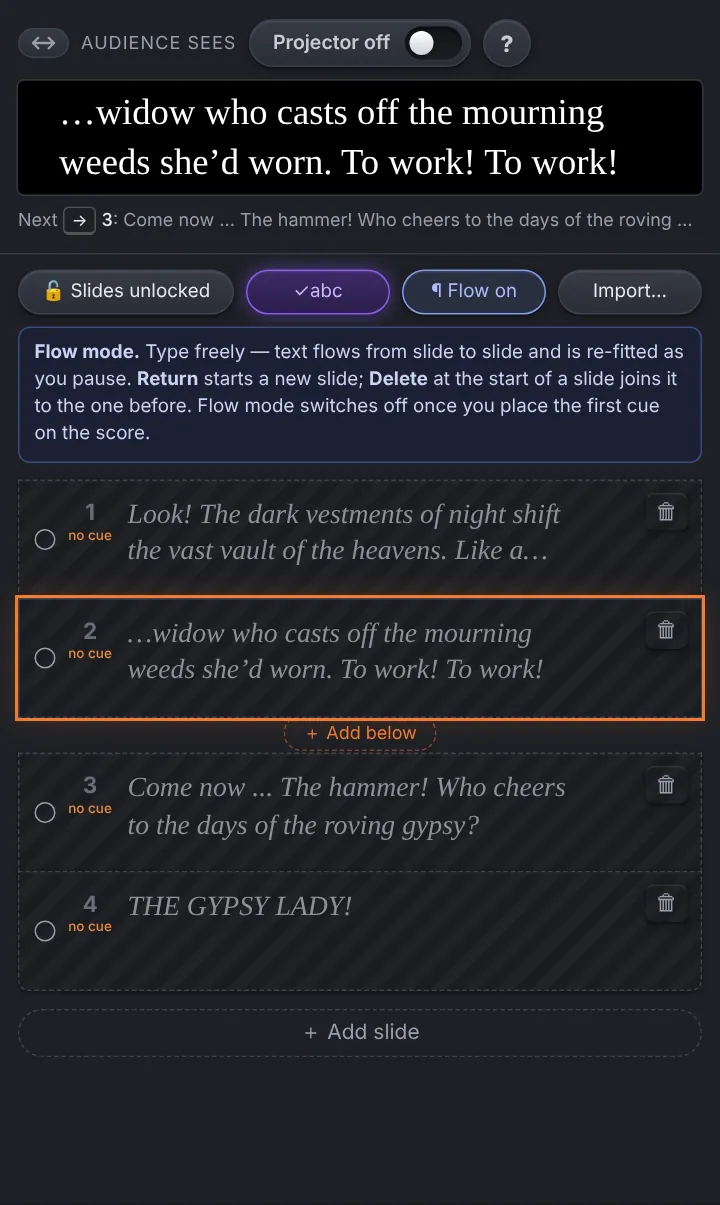
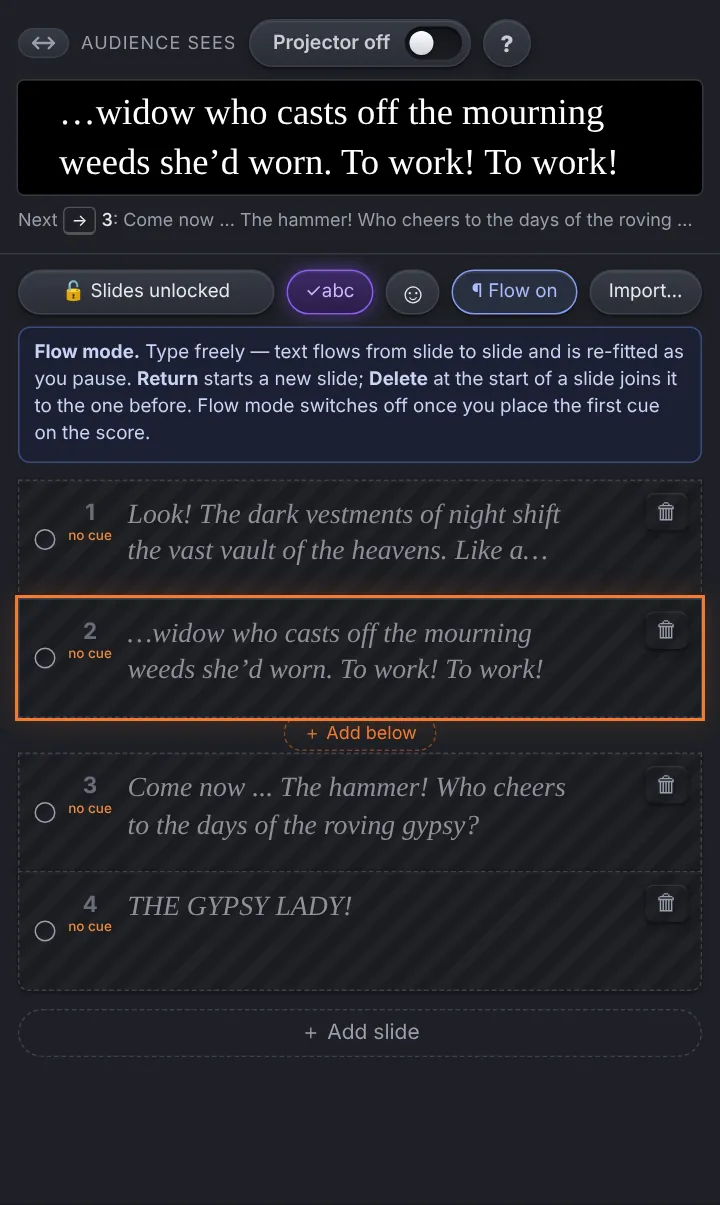
Settings in two parts (Titles / Cues on the score); emoji palette above the slides; on a Mac STQ keeps running when its window closes, like Word; guide updated
Claude-Session: https://claude.ai/code/session_01JZx8grrhxKZEWkWkE57QFR

Changed region(s): [[0.0611, 0.2149, 0.9167, 0.2763]]

diff --git a/src/app.html b/src/app.html
@@ -307,7 +307,17 @@ body.swapped .swapbtn::after{left:auto;right:0}
 .pvguide{position:absolute;box-sizing:border-box;border:0 solid rgba(255,255,255,.4);pointer-events:none}
 .nextline{margin-top:8px;font-size:12px;color:var(--dim);white-space:nowrap;overflow:hidden;text-overflow:ellipsis}
 .nextline b{color:var(--text);font-weight:500}
-.slidehead{display:grid;grid-template-columns:minmax(0,1.5fr) repeat(3,minmax(0,1fr));gap:8px;padding:10px 12px 8px}
+.slidehead{display:grid;grid-template-columns:minmax(0,1fr) minmax(0,max-content) 36px minmax(0,max-content) minmax(0,max-content);gap:8px;padding:10px 12px 8px}
+.slidehead .emojibtn{padding:0;font-size:19px;line-height:1}
+.emojipop{position:fixed;inset:auto;margin:0;z-index:1001;width:318px;max-height:min(372px,70vh);overflow:auto;padding:10px 10px 8px;border-radius:14px;background:var(--panel2);border:1px solid var(--btn-line);box-shadow:var(--dlg-sh);color:var(--text)}
+.emojipop h4{margin:6px 2px 4px;font-size:10.5px;font-weight:600;letter-spacing:.08em;text-transform:uppercase;color:var(--dim)}
+.emojipop h4:first-child{margin-top:0}
+.emojipop .eg{display:grid;grid-template-columns:repeat(8,1fr);gap:2px}
+.emojipop .eg button{height:34px;padding:0;border:0;border-radius:8px;background:transparent;box-shadow:none;font-size:21px;line-height:1;cursor:pointer;font-family:"Apple Color Emoji","Segoe UI Emoji","Noto Color Emoji",sans-serif}
+.emojipop .eg button.tx{font-family:Georgia,serif;font-size:22px;color:var(--text)}
+.emojipop .eg button:hover{background:var(--hover-wash);transform:scale(1.15)}
+.emojipop .more{width:100%;margin-top:8px;height:30px;font-size:12.5px}
+.emojipop .tip{font-size:11.5px;color:var(--dim);margin:6px 2px 0;text-align:center}
 .slidehead button{height:30px;min-width:0;padding:0 12px;font-size:12.5px;overflow:hidden;text-overflow:ellipsis;display:inline-flex;align-items:center;justify-content:center;gap:5px}
 #slides{flex:1;overflow:auto;padding:4px 12px 40px;display:flex;flex-direction:column;gap:6px}
 .slide{display:grid;grid-template-columns:14px 34px 1fr auto auto;gap:8px;align-items:start;background:var(--card);border:1px solid var(--line);border-radius:12px;box-shadow:var(--card-sh);transition:border-color .15s,box-shadow .15s;padding:7px 8px;position:relative}
@@ -435,6 +445,9 @@ body.native #setDlg .web-only{display:none}
 #setDlg .lbl{color:var(--soft);font-size:13.5px;display:flex;align-items:center;gap:7px;white-space:nowrap}
 #setDlg .srule{grid-column:1/-1;height:1px;align-self:center;background:linear-gradient(90deg,transparent,#3a3d47 12%,#3a3d47 88%,transparent)}
 #setDlg .sgrid > .srule{height:1px}
+#setDlg .sdiv{grid-column:1/-1;display:flex;align-items:flex-end;gap:10px;align-self:end;padding-bottom:2px;font-size:11.5px;font-weight:600;letter-spacing:.08em;text-transform:uppercase;color:var(--dim);white-space:nowrap}
+#setDlg .sdiv::after{content:'';flex:1;height:1px;margin-bottom:5px;background:var(--line)}
+#setDlg .sdiv:not(:first-child){margin-top:6px}
 /* pills */
 #setDlg .pbtn,#setDlg select.pill,#setDlg .ptog,#setDlg .pcol{height:var(--rowh);border-radius:999px;border:0;background:var(--raised);box-shadow:var(--raisedsh);color:var(--text);font-size:13.5px}
 #setDlg .pbtn{padding:0 16px;width:100%;overflow:hidden;text-overflow:ellipsis}
@@ -716,7 +729,7 @@ header :is(#saveBtn,#followBtn,#helpBtn,#settingsBtn,.menu>[data-menu]){width:96
       <div class="nextline" id="nextLine"></div>
       <div class="followbar" id="followBar" hidden><div class="fbtext" id="fbText"></div><div class="fbtrack"><div class="fbfill" id="fbFill"></div></div></div>
     </div>
-    <div class="slidehead"><button class="lockbtn" id="lockOrder" data-lock="lockOrder"></button><button class="lockbtn" id="spellBtn" title="Check spelling while typing">✓abc</button><button class="lockbtn" id="flowBtn" title="Flow mode: write the libretto as one continuous text that fills slides by itself">¶ Flow</button><button data-act="importSlides" title="Bring in titles from a spreadsheet (CSV), a text file or a PDF of existing slides">Import…</button></div>
+    <div class="slidehead"><button class="lockbtn" id="lockOrder" data-lock="lockOrder"></button><button class="lockbtn" id="spellBtn" title="Check spelling while typing">✓abc</button><button class="lockbtn emojibtn" id="emojiBtn" title="Insert an emoji into the slide you're typing in">☺</button><button class="lockbtn" id="flowBtn" title="Flow mode: write the libretto as one continuous text that fills slides by itself">¶ Flow</button><button data-act="importSlides" title="Bring in titles from a spreadsheet (CSV), a text file or a PDF of existing slides">Import…</button></div>
     <div class="flowhelp" id="flowhelp"><b>Flow mode.</b> Type freely — text flows from slide to slide and is re-fitted as you pause. <b>Return</b> starts a new slide; <b>Delete</b> at the start of a slide joins it to the one before. Flow mode switches off once you place the first cue on the score.</div>
     <div class="pickbar" id="pickbar"><span id="pickInfo"></span><span class="sp"></span><button id="pickUp" title="Move the selected slides up one place">▲</button><button id="pickDown" title="Move the selected slides down one place">▼</button><button id="pickLink" title="Give the selected supertitles to a PDF: they join its section">🔗 Link to PDF…</button><button class="danger" id="pickDel">🗑 Delete…</button><button id="pickClear">Clear</button></div>
     <div id="slides"></div>
@@ -749,6 +762,7 @@ header :is(#saveBtn,#followBtn,#helpBtn,#settingsBtn,.menu>[data-menu]){width:96
 <dialog id="setDlg"><form method="dialog">
   <div class="dhead" title="Drag to move · double-click to put it back in the middle"><span class="grip" aria-hidden="true"></span><h2>Settings</h2><span class="ver">STQ v@@VERSION@@</span></div>
   <div class="sgrid">
+    <div class="sdiv">Titles</div>
     <div class="srow"><span class="lbl">Screen shape</span><div class="pseg" id="sShapeSeg" style="--n:3"><button type="button" data-v="4/3" title="A classic 4:3 projector: the titles use a centered 4:3 area">4:3</button><button type="button" data-v="16/9" title="A widescreen projector: the titles use the whole screen">16:9</button><button type="button" data-v="6/1" title="A wide band of two lines, e.g. above the proscenium">6:1 Strip</button></div><select id="sShape" hidden><option value="4/3">4:3</option><option value="16/9">16:9</option><option value="6/1">6:1 Strip</option></select><span></span></div>
     <div class="srow"><span class="lbl">Font</span><select id="sFont" class="pill" title="The typeface of the titles">
       <option value='Georgia, "Times New Roman", serif'>Georgia (serif)</option>
@@ -767,6 +781,7 @@ header :is(#saveBtn,#followBtn,#helpBtn,#settingsBtn,.menu>[data-menu]){width:96
     <div class="srow"><span class="lbl">Text size <span class="info" id="sFsNote" tabindex="0">i</span></span><input type="range" id="sFs" min="75" max="100" step="1" title="Size of the titles (75–100 %)"><span class="val" id="sFsV"></span></div>
     <div class="srow"><span class="lbl">Vertical position</span><input type="range" id="sVpos" min="-100" max="100" step="1" title="Left = higher on the screen · right = lower"><button type="button" id="sMid" class="val pbtn" title="Put the titles back in the middle">Middle</button></div>
     <div class="srow"><span class="lbl">Side margins</span><input type="range" id="sSide" min="2" max="6" step="0.25" title="Space kept clear at each side"><span class="val" id="sSideV"></span></div>
+    <div class="sdiv">Cues on the score</div>
     <div class="srow"><span class="lbl">Cue circle size</span><input type="range" id="sMk" min="2" max="6" step="0.25" title="Size of the cue circles on the score and in the printable score"><span class="val" id="sMkV"></span></div>
     <div class="srow"><span class="lbl">Cue color</span><div class="ppair"><label class="pcol" title="Color of all the cue circles on the score (and in the printable score)">Cues<input type="color" id="sCue"></label></div><span></span></div>
   </div>
@@ -2002,7 +2017,7 @@ function resetProject(){
 }
 async function newProject(){ if(!await askSaveFirst()) return; resetProject(); }
 // File → Close: back to the welcome screen with nothing open.
-async function closeProject(){ if(!state.markers.length && !state.slides.length && !pdfDoc) return; if(!await askSaveFirst()) return; resetProject(); toast('Project closed'); }
+async function closeProject(){ if(!state.markers.length && !state.slides.length && !pdfDoc){ if(NATIVE) window.close(); return; } if(!await askSaveFirst()) return; resetProject(); toast('Project closed'); }
 async function openProjectFile(f){
   try{
     const p=JSON.parse(await f.text()); if(!Array.isArray(p.slides) && !Array.isArray(p.markers)) throw 0;
@@ -2906,6 +2921,51 @@ async function exportPptx(items){
   if(h){ try{ const w=await h.createWritable(); await w.write(blob); await w.close(); done(h.name); return; }catch(e){ console.warn(e); } }
   download(name, blob); done(name);
 }
+
+/* ---------- emoji ----------
+   ☺ above the slides opens a small palette; a click inserts the emoji where the cursor is in the slide
+   being typed in (or at the end of the current slide). The palette stays open for more. */
+const EMOJI=[['Music & theatre',['♪','♫','♩','🎵','🎶','🎼','🎤','🎻','🎺','🎹','🥁','🎭','🎬','👑','🗡','🍷','🥂','🕯','📜','💃']],
+  ['Faces',['😀','😂','😊','😍','🥰','😘','😉','😏','🤔','😳','😱','😢','😭','😡','😴','🥺']],
+  ['Love',['❤','💔','💕','💘','💋','🌹','💐','💍']],
+  ['Nature',['☀','🌙','⭐','✨','🔥','⚡','🌊','🌧','❄','🌸','🍃','🐦']],
+  ['Hands',['👏','🙏','👋','✋','👉','👈','💪','🤫']],
+  ['Symbols',['✝','☠','💀','⚔','🔔','⏳','❗','❓','⚠','✅','❌','➡']]];
+let lastSlideTa=null;
+slidesEl.addEventListener('focusin', e=>{ if(e.target.tagName==='TEXTAREA') lastSlideTa=e.target; }, true);
+function emojiTarget(){
+  const a=document.activeElement; if(a && a.tagName==='TEXTAREA' && slidesEl.contains(a)) return a;
+  if(lastSlideTa && document.contains(lastSlideTa)) return lastSlideTa;
+  const t=cur>=0 && document.querySelector(`.slide[data-i="${cur}"] textarea`); if(t){ t.focus(); const n=t.value.length; t.setSelectionRange(n,n); return t; }
+  return null;
+}
+function insertEmoji(ch){
+  if(mode!=='edit' || state.settings.lockOrder) return lockedNote('order');
+  const ta=emojiTarget(); if(!ta) return toast('Click into a slide first, then pick an emoji');
+  if(ta.readOnly) return lockedNote('order');
+  ta.focus(); document.execCommand('insertText', false, ch);   // goes through the normal typing path (undo, Flow, saving)
+}
+function closeEmoji(){ document.removeEventListener('pointerdown', emojiOut, true); const p=$('#emojiPop'); if(p){ try{ p.hidePopover(); }catch(_){} p.remove(); } $('#emojiBtn').classList.remove('on'); }
+function emojiOut(e){ const p=$('#emojiPop'); if(p && !p.contains(e.target) && e.target!==$('#emojiBtn')) closeEmoji(); }
+function openEmoji(){
+  if($('#emojiPop')) return closeEmoji();
+  if(mode!=='edit' || state.settings.lockOrder) return lockedNote('order');
+  const pop=document.createElement('div'); pop.className='emojipop'; pop.id='emojiPop'; pop.setAttribute('popover','manual');
+  for(const [name,list] of EMOJI){ const h=document.createElement('h4'); h.textContent=name; const g=document.createElement('div'); g.className='eg';
+    for(const ch of list){ const b=document.createElement('button'); b.type='button'; b.textContent=ch; b.title=ch; if(/^[♪♫♩]$/.test(ch)){ b.classList.add('tx'); b.title=ch+' (a music sign in the title font)'; }
+      b.addEventListener('mousedown', e=>e.preventDefault()); b.onclick=()=>insertEmoji(ch); g.append(b); }
+    pop.append(h,g); }
+  if(NATIVE && window.stc.emojiPanel){ const m=document.createElement('button'); m.type='button'; m.className='more'; m.textContent='More emoji…'; m.title='Your computer’s full emoji panel'; m.addEventListener('mousedown', e=>e.preventDefault());
+    m.onclick=()=>{ const t=emojiTarget(); if(t) t.focus(); closeEmoji(); window.stc.emojiPanel(); }; pop.append(m); }
+  else { const t=document.createElement('p'); t.className='tip'; t.innerHTML='More: <kbd>Ctrl</kbd>+<kbd>⌘</kbd>+<kbd>Space</kbd> on a Mac, <kbd>⊞</kbd>+<kbd>.</kbd> on Windows'; pop.append(t); }
+  document.body.append(pop); try{ pop.showPopover(); }catch(_){}
+  const r=$('#emojiBtn').getBoundingClientRect(), w=pop.offsetWidth, h=pop.offsetHeight;
+  pop.style.left=Math.max(8, Math.min(r.left+r.width/2-w/2, innerWidth-w-8))+'px'; pop.style.top=(r.bottom+6+h>innerHeight-8 ? Math.max(8, r.top-h-6) : r.bottom+6)+'px';
+  $('#emojiBtn').classList.add('on'); setTimeout(()=>document.addEventListener('pointerdown', emojiOut, true), 0);
+}
+$('#emojiBtn').addEventListener('mousedown', e=>e.preventDefault());   // keep the cursor in the slide
+$('#emojiBtn').onclick=openEmoji;
+document.addEventListener('keydown', e=>{ if(e.key==='Escape' && $('#emojiPop')){ e.preventDefault(); e.stopPropagation(); closeEmoji(); } }, true);
 
 /* ---------- text that doesn't fit ----------
    Labels too long for their space end in "…"; hovering slides the text sideways to show the rest,

diff --git a/docs/manual/manual.html b/docs/manual/manual.html
@@ -108,7 +108,7 @@
 <li>The <b>hint line</b> — what clicking and the keys do right now.</li>
 <li>The <b>score controls</b>, centered over the score: lock the cues, manage PDFs, and the view size (100 %, fit height, fit width, or any size on the slider).</li>
 <li><b>Audience sees</b> — exactly what is on the projector (or what will be), with the <b>Projector switch</b> above it: flip it on to open the audience window. It glows teal and gently breathes while the projector is live.</li>
-<li>The <b>slides</b> (supertitles), with the slides lock, spelling, flow mode and import.</li>
+<li>The <b>slides</b> (supertitles), with the slides lock, spelling, emoji, flow mode and import.</li>
 </ol>
 <p>The <span class="ui">↔</span> button above the preview swaps the two sides, so the score can be on the right and the slides on the left. Each computer remembers its choice.</p>
 <div class="keybox"><div class="kbt">⌨ Anywhere</div><div class="kbr"><span class="k"><kbd>F1</kbd> or <kbd>⌘?</kbd></span><span>open this Help</span></div><div class="kbr"><span class="k"><kbd>⌘,</kbd></span><span>Settings (desktop app)</span></div><div class="kbr"><span class="k"><kbd>⇧⌘E</kbd> / <kbd>⇧⌘R</kbd></span><span>Edit / Show mode (desktop app)</span></div></div>
@@ -264,6 +264,9 @@
 <p>With <span class="ui">Also color its cue</span> ticked in the palette (it is, until you untick it — STQ remembers your choice), the slide's cue on the score turns the same color too, so you can see at a glance which titles and cues belong together. Untick it to color only the slide. The color always comes from the slide, so it shows the link: move the slide to a new place and the color goes with it, to the cue that now pairs with it; clear the slide's color and its cue goes back to the general <span class="ui">Cue color</span> from Settings.</p>
 <p>Slide colors are for you only: the projector, the preview and the audience never see them. They are saved with the project. The rings show only while the slides are unlocked in Edit mode; locking the slides (or switching to Show) hides them, and the colors stay.</p>
 <figure class="shot"><img src="shots/slide-colors.webp" alt="Slides with colored glows, the color palette open, and the matching cues on the score"><figcaption>Color rings on the slides: each colored slide glows in the list and, with “Also color its cue” ticked, its cue on the score takes the same color.</figcaption></figure>
+<h3>Emoji and music signs</h3>
+<p><span class="ui">☺</span> above the slides opens a small palette: music signs (♪ ♫, drawn in the title font), music and theatre, faces, love, nature, hands and symbols. Click in a slide where the emoji should go, then pick it; the palette stays open so you can add more, and closes when you click elsewhere or press <kbd>Esc</kbd>. With no slide being typed in, the emoji goes at the end of the current slide. In the desktop app, <span class="ui">More emoji…</span> at the bottom opens your computer's full emoji panel (also <kbd>Ctrl</kbd>+<kbd>⌘</kbd>+<kbd>Space</kbd> on a Mac, <kbd>⊞</kbd>+<kbd>.</kbd> on Windows).</p>
+<figure class="shot small"><img src="shots/emoji.webp" alt="The emoji palette open above the slides"></figure>
 <h3>Spelling and synonyms</h3>
 <p>Misspelled words get a red underline while you edit. Right-click one for suggested corrections, <span class="ui">Learn</span> (add it to your dictionary) or <span class="ui">Ignore Spelling</span>. In the desktop app, right-clicking a selected word also offers English <span class="ui">Synonyms</span>, and on a Mac <span class="ui">Look Up</span> opens the system dictionary and thesaurus. <span class="ui">✓abc</span> above the slides (or <span class="ui">Edit → Check Spelling While Typing</span>) switches checking off and on; while it is on, the button glows purple. On Windows, choose the language in <span class="ui">Settings → Spelling language</span>; a Mac uses its own languages.</p>
 </section>
@@ -312,7 +315,7 @@
 <section data-id="settings" data-part="Guide">
 <h2>Making the titles look just right</h2>
 <p class="lead">A few switches and sliders, and the preview shows every change instantly — no guessing what the audience will see.</p>
-<p>The Settings window can be dragged anywhere by its title bar, so you can watch the <span class="ui">Audience sees</span> preview while you adjust (double-click the title bar to put it back in the middle). Every change applies at once; <span class="ui">Done</span> just closes the window.</p>
+<p>The Settings window can be dragged anywhere by its title bar, so you can watch the <span class="ui">Audience sees</span> preview while you adjust (double-click the title bar to put it back in the middle). Every change applies at once; <span class="ui">Done</span> just closes the window. It has two parts: <b>Titles</b>, for how the supertitles look on the screen, and <b>Cues on the score</b>, for the numbered circles you place on the PDF.</p>
 <figure class="shot"><img src="shots/settings.webp" alt="The Settings window"></figure>
 <dl>
 <dt>Screen shape</dt><dd><b>16:9</b> fills a widescreen projector; <b>4:3</b> uses a centered 4:3 area; <b>6:1 Strip</b> is a full-width band one sixth as high as it is wide, for two lines of titles above the stage.</dd>
@@ -424,7 +427,7 @@
 <li>The desktop app always starts on the welcome screen with nothing open; a project opens only when you open it (double-click its file, <span class="ui">File → Open…</span>, or drop it on the window). The browser version picks up where you left off instead. Either way, only a saved file can be moved to another computer or backed up.</li>
 <li><b>Undo</b> <kbd>⌘Z</kbd> and <b>Redo</b> <kbd>⇧⌘Z</kbd> (<kbd>Ctrl</kbd>+<kbd>Y</kbd> on Windows) cover cues, slides, and moved or removed PDFs.</li>
 <li>The desktop app asks before closing with unsaved changes; “• not saved” next to the project name shows there are some.</li>
-<li><span class="ui">File ▾ → Close project</span> (<kbd>⌘W</kbd>) closes the project and returns to the welcome screen, offering to save unsaved changes first. <span class="ui">File ▾ → New project…</span> (<kbd>⌘N</kbd>) does the same and starts empty. <span class="ui">Remove all cue markers…</span> and <span class="ui">Remove all slides…</span> clear one side only.</li>
+<li><span class="ui">File ▾ → Close project</span> (<kbd>⌘W</kbd>) closes the project and returns to the welcome screen, offering to save unsaved changes first. On a Mac, STQ then works like Word: closing the window (or <kbd>⌘W</kbd> again with nothing open) leaves STQ running in the Dock and menu bar, ready for the next file. Click its Dock icon for the welcome screen, double-click a project to open it, and quit with <kbd>⌘Q</kbd>. On Windows, closing the window quits STQ, as Windows apps do. <span class="ui">File ▾ → New project…</span> (<kbd>⌘N</kbd>) does the same and starts empty. <span class="ui">Remove all cue markers…</span> and <span class="ui">Remove all slides…</span> clear one side only.</li>
 </ul>
 <div class="keybox"><div class="kbt">⌨ Files</div><div class="kbr"><span class="k"><kbd>⌘S</kbd></span><span>save</span></div><div class="kbr"><span class="k"><kbd>⇧⌘S</kbd></span><span>save as</span></div><div class="kbr"><span class="k"><kbd>⌥⇧⌘S</kbd></span><span>save as PDF (desktop app)</span></div><div class="kbr"><span class="k"><kbd>⌘O</kbd></span><span>open</span></div><div class="kbr"><span class="k"><kbd>⌘W</kbd></span><span>close project (desktop app)</span></div><div class="kbr"><span class="k"><kbd>⌘E</kbd></span><span>export printable score (desktop app)</span></div><div class="kbr"><span class="k"><kbd>⌘Z</kbd> / <kbd>⇧⌘Z</kbd></span><span>undo / redo</span></div></div>
 <p>The different files Supertitle Cuer can write are explained in the next chapter, <a href="#exports">Sharing and printing</a>.</p>

diff --git a/electron/main.js b/electron/main.js
@@ -30,6 +30,7 @@ const isOpenable = (p) => /\.(supertitles|pdf)$/i.test(p || '') && fs.existsSync
 function queueOpen(p) {
   if (!isOpenable(p)) return;
   pendingFiles.push(p);
+  if (!win && app.isReady()) createWindow();   // Mac: the app was running with no window open
   flushPending();
 }
 
@@ -276,7 +277,9 @@ function setKeepAwake(on) {
 ipcMain.on('renderer-ready', () => {
   rendererReady = true;
   flushPending();
+  while (pendingCmds.length) menuCommand(pendingCmds.shift());
 });
+ipcMain.on('emoji-panel', () => { try { app.showEmojiPanel(); } catch (_) {} });
 ipcMain.on('keep-awake', (_e, on) => setKeepAwake(!!on));
 // the guide as a PDF, shipped inside the app (docs/Supertitle_Cuer_Manual.pdf)
 const GUIDE_PDF = path.join(__dirname, '..', 'docs', 'Supertitle_Cuer_Manual.pdf');
@@ -377,8 +380,12 @@ ipcMain.handle('ask-save', async () => {
 });
 
 // ---------- menu ----------
+// With no window open (Mac: the app keeps running, like Word), a menu command opens the window first.
+const pendingCmds = [];
 function menuCommand(cmd) {
-  if (win) win.webContents.executeJavaScript(`window.__stcMenu && window.__stcMenu(${JSON.stringify(cmd)})`).catch(() => {});
+  if (!win) { if (cmd === 'close') return; pendingCmds.push(cmd); if (app.isReady()) createWindow(); return; }
+  if (!rendererReady) { pendingCmds.push(cmd); return; }
+  win.webContents.executeJavaScript(`window.__stcMenu && window.__stcMenu(${JSON.stringify(cmd)})`).catch(() => {});
 }
 const item = (label, cmd, accelerator) => ({ label, accelerator, click: () => menuCommand(cmd) });
 
@@ -472,7 +479,9 @@ app.whenReady().then(() => {
 app.on('activate', () => {
   if (app.isReady() && (!win || win.isDestroyed())) createWindow();
 });
-app.on('window-all-closed', () => app.quit());
+// Like Word: on a Mac, closing the window closes the project but STQ keeps running (Dock, menu bar);
+// ⌘Q quits. On Windows the app quits with its last window, as Windows apps do.
+app.on('window-all-closed', () => { if (!isMac) app.quit(); });
 app.on('will-quit', () => {
   // words ignored with "Ignore Spelling" are only for this session
   try { const ses = require('electron').session.defaultSession; ignoredWords.forEach((w) => ses.removeWordFromSpellCheckerDictionary(w)); } catch (_) {}

diff --git a/electron/preload.js b/electron/preload.js
@@ -7,6 +7,7 @@ contextBridge.exposeInMainWorld('stc', {
   openDialog: () => ipcRenderer.invoke('open-dialog'),
   saveDialog: (opts) => ipcRenderer.invoke('save-dialog', opts),
   askSave: () => ipcRenderer.invoke('ask-save'),
+  emojiPanel: () => ipcRenderer.send('emoji-panel'),
   writeFile: (path, bytes) => ipcRenderer.invoke('write-file', { path, bytes }),
   keepAwake: (on) => ipcRenderer.send('keep-awake', !!on),
   docState: (s) => ipcRenderer.send('doc-state', s),

diff --git a/scripts/manual-shots.py b/scripts/manual-shots.py
@@ -297,6 +297,12 @@ tr:nth-child(4) td{outline:2px solid #1e7145;outline-offset:-2px}</style></body>
         b = io.BytesIO(); sheet.save(b, 'PNG'); save(b.getvalue(), 'example-printable', 1500)
         await ex.close()
 
+        print('emoji')
+        await pg.evaluate("(()=>{ setFlow(false); goTo(2,false); })()"); await pg.wait_for_timeout(300)
+        await pg.click('.slide[data-i="2"] textarea'); await pg.click('#emojiBtn'); await pg.wait_for_timeout(500)
+        r = await pg.evaluate("(()=>{ const a=document.querySelector('.slidehead').getBoundingClientRect(), b=document.querySelector('#emojiPop').getBoundingClientRect(); const x=Math.min(a.left,b.left)-12, y=Math.min(a.top,b.top)-12; return {x, y, width:Math.max(a.right,b.right)+12-x, height:Math.max(a.bottom,b.bottom)+12-y}; })()")
+        save(await shot(clip=r), 'emoji', 900)
+        await pg.keyboard.press('Escape'); await pg.mouse.click(5,5); await pg.wait_for_timeout(200)
         print('help')
         await pg.evaluate("setFlow(false); openHelp('slides')"); await pg.wait_for_timeout(600)
         await pg.fill('#helpQ', 'blackout'); await pg.wait_for_timeout(400)
